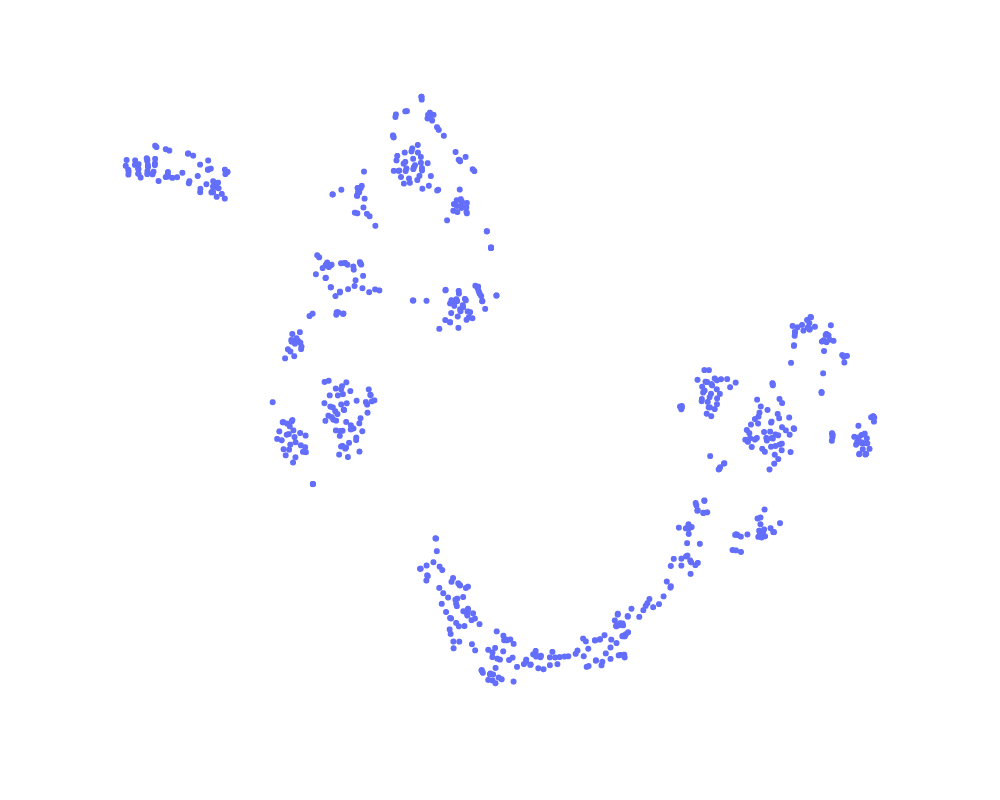
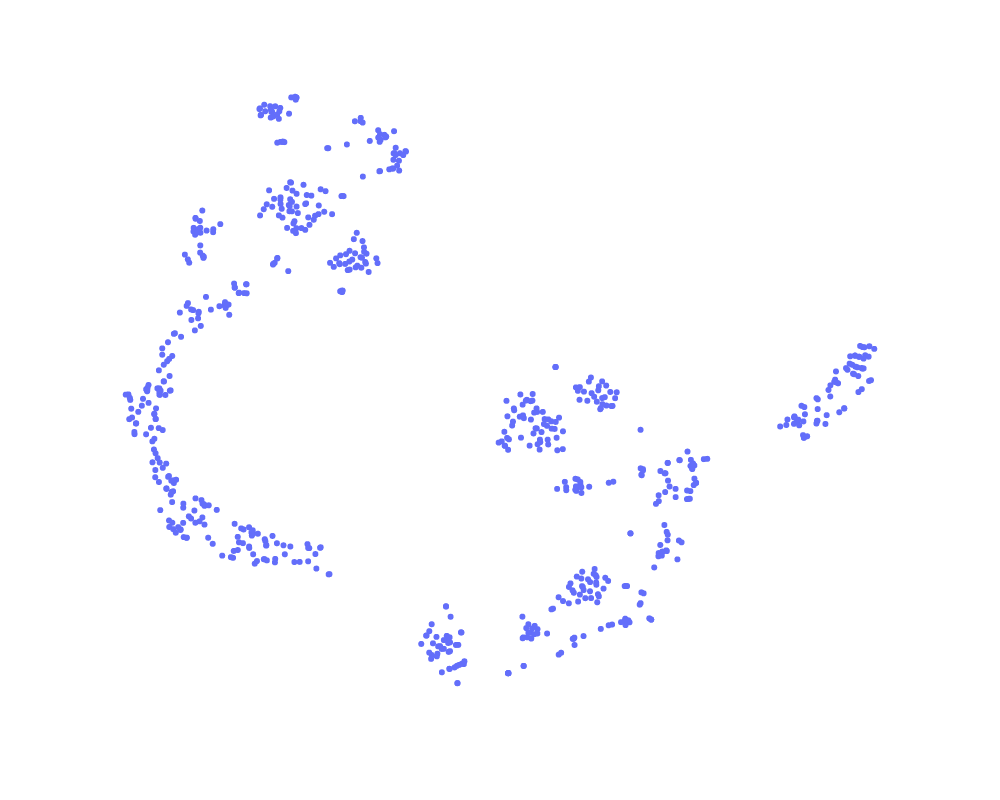
se agrego los modelos, ahora montar las imagenes de los modelos

diff --git a/dashboard/index.html b/dashboard/index.html
@@ -81,7 +81,7 @@
             <div class="container">
               <div class="row align-items-center">
                 <div class="col-md-6 offset-md-6 text-center text-md-right">
-                  <h1> Project Outliers: Bank </h1>
+                  <h1 style="color: #343a40"> Project Outliers: SARLAFT </h1>
                 </div>
               </div>
             </div>
@@ -108,12 +108,9 @@
               <div class="card-body">
 
                 <h5 class="card-title"> DOE </h5>
-                <p class="card-text"> A cada grano de café se realizó la toma de dos fotos, una por el frente y otra por el reverso, sobre una hoja clara, la cual cuenta con tres cuadros de referencia de color que miden 1 por lado. </p>
+                <p class="card-text"> Consultoría, aplicación de modelos ML en factores de riesgo para la detección de anomalias en transacciones bancarias con el objetivo de evitar el lavado de activos entre otros delitos (sarlaft). </p>
                 <small> 
-                  <br> El experimento es no balanceado!!! <br>
-                  Dimensiones: 740 x 480 pixeles, 2256 x 1504 pixeles, hasta 4272 x 2848, entre otros. <br>
-                  Peso: 800 kb hasta 3.2 MB. <br>
-                  Formato: jpeg
+                  <br> El experimento es no supervisado!!! <br>
                 </small>           
 
               </div>
@@ -124,12 +121,8 @@
             <div class="card">
               <div class="card-body">
               
-                <h5 class="card-title"> Problema </h5>
-                <p class="card-text"> EL COMITE NACIONAL DE CAFETEROS mediante la RESOLUCION NUMERO 5 DE 2002, dicta las medidas conducentes a garantizar la calidad del café de Exportación, las cuales deberán ser observadas, tanto por la Federación Nacional de Cafeteros de Colombia como por los exportadores privados. </p>
-              
                 <h5 class="card-title"> Objetivo </h5>
-                <p class="card-text"> Desarrollar un prototipo capaz de clasificar los granos del café. </p>
-                <p class="card-text"> Reducir el porcentaje de error de error de clasificación para evitar realizar una compensación o la devolución del cargamento. </p>
+                <p class="card-text"> Se desarrollo un prototipo capaz de clasificar posibles transacciones anómalas (posibles fraudes). Este análisis de una base de datos de un banco la cual contiene 1000 transacciones. Se aplicaron técnicas de clasificación no supervisada. </p>
             
               </div>
             </div>
@@ -141,7 +134,7 @@
           <div class="card">
             <div class="card-body">
 
-              <p class="card-text"> Se realizara un clasificador de defectos de Café Verde. Los defectos tenidos en cuenta y las caracteristicas son: </p>
+              <p class="card-text"> Se ajustaran 3 modelos para identificar atipicos (y se experimento uno adicional), se cruzaran resultados para aumentar la presicion: </p>
           
               <div class="row pt-2">
 
@@ -151,49 +144,22 @@
           
                     <li class="list-group-item d-flex justify-content-between align-items-start">
                       <div class="ms-2 me-auto">
-                        <div class="fw-bold"> Arrugados </div>
+                        <div class="fw-bold"> Local Outlier Factor (LOF) </div>
                         <small> 
-                          Desarrollo pobre del cafeto por sequía. <br>
-                          Debilidad del cafeto por falta de fertilizantes.
+                          Mide la desviación local de la densidad de una muestra dada con respecto a sus vecinos. Es local en el sentido de que la puntuación de la anomalía depende de qué tan aislado esté el objeto con respecto a la vecindad circundante.
                         </small>
                       </div>
-                      <span class="badge bg-success rounded-pill"> 72 </span>
+                      <span class="badge bg-success rounded-pill"> usado </span>
                     </li>
 
                     <li class="list-group-item d-flex justify-content-between align-items-start">
                       <div class="ms-2 me-auto">
-                        <div class="fw-bold"> Broca </div>
+                        <div class="fw-bold"> Unsupervised Outlier Detection </div>
                         <small> 
-                          Grano con pequeños orificios.
+                          Estimar el soporte de una distribución de alta dimensión, basado en libsvm.
                         </small>
                       </div>
-                      <span class="badge bg-success rounded-pill"> 90 </span>
-                    </li>
-          
-                    <li class="list-group-item d-flex justify-content-between align-items-start">
-                      <div class="ms-2 me-auto">
-                        <div class="fw-bold"> Buenos </div>
-                        <small> 
-                          Grano grande. <br>
-                          Plano y parejo. <br>
-                          Cumplimiento de estandares de calidad dados por la Green Coffee Association of New York City, Inc. (Mallas)
-                        </small>
-                      </div>
-                      <span class="badge bg-success rounded-pill"> 191 </span>
-                    </li>
-          
-                    <li class="list-group-item d-flex justify-content-between align-items-start">
-                      <div class="ms-2 me-auto">
-                        <div class="fw-bold"> Negro </div>
-                        <small> 
-                          Grano con coloración del pardo al negro. <br>
-                          Encogido. <br>
-                          Arrugado. <br>
-                          Cara plana hundida. <br>
-                          Hendidura muy abierta.
-                        </small>
-                      </div>
-                      <span class="badge bg-success rounded-pill"> 101 </span>
+                      <span class="badge bg-success rounded-pill"> usado </span>
                     </li>
           
                   </ul>
@@ -203,55 +169,29 @@
                 <div class="col-12 col-md-6 col-lg-6 mb-4">
           
                   <ul class="list-group">
-          
-                      <li class="list-group-item d-flex justify-content-between align-items-start">
-                        <div class="ms-2 me-auto">
-                          <div class="fw-bold"> Decolorados </div>
-                          <small> 
-                            Grano con alteraciones en su color normal, presenta colores que van desde el blanqueado, crema, amarillo hasta el carmelita.
-                          </small>
-                        </div>
-                        <span class="badge bg-success rounded-pill"> 200 </span>
-                      </li>
 
-                      <li class="list-group-item d-flex justify-content-between align-items-start">
-                        <div class="ms-2 me-auto">
-                          <div class="fw-bold"> Inmaduro </div>
-                          <small> 
-                            Grano de color verdoso o gris claro. <br>
-                            La cutícula no desprende. <br>
-                            Superficie marchita. <br>
-                            amaño menor que el normal. <br>
-                            En este grupo se incluye el grano del paloteo.
-                          </small>
-                        </div>
-                        <span class="badge bg-success rounded-pill"> 200 </span>
-                      </li>
+                    <li class="list-group-item d-flex justify-content-between align-items-start">
+                      <div class="ms-2 me-auto">
+                        <div class="fw-bold"> Isolation Forest (ISO) </div>
+                        <small> 
+                          Aísla las observaciones seleccionando aleatoriamente una característica y luego seleccionando aleatoriamente un valor dividido entre los valores máximo y mínimo de la característica seleccionada.
+                        </small>
+                      </div>
+                      <span class="badge bg-success rounded-pill"> usado </span>
+                    </li>
+
+                    <li class="list-group-item d-flex justify-content-between align-items-start">
+                      <div class="ms-2 me-auto">
+                        <div class="fw-bold"> DBSCAN </div>
+                        <small> 
+                          DBSCAN ve los clústeres como áreas de alta densidad separadas por áreas de baja densidad. <br>
+                          Cualquier muestra alejada de una muestra central o conglomerado en un área de baja densidad es considerada un atípico.
+                        </small>
+                      </div>
+                      <span class="badge bg-danger rounded-pill"> no usado </span>
+                    </li>
           
-                      <li class="list-group-item d-flex justify-content-between align-items-start">
-                        <div class="ms-2 me-auto">
-                          <div class="fw-bold"> Mordido </div>
-                          <small> 
-                            Grano con una herida o cortada. <br>
-                            Color oxidado.
-                          </small>
-                        </div>
-                        <span class="badge bg-success rounded-pill"> 123 </span>
-                      </li>
-          
-                      <li class="list-group-item d-flex justify-content-between align-items-start">
-                        <div class="ms-2 me-auto">
-                          <div class="fw-bold"> Vinagre </div>
-                          <small> 
-                            Grano con coloración del crema al carmelita oscuro. <br>
-                            Hendidura libre de tegumentos. <br>
-                            Película plateada puede tender a coloraciones pardo rojizas.
-                          </small>
-                        </div>
-                        <span class="badge bg-success rounded-pill"> 113 </span>
-                      </li>
-          
-                    </ul>     
+                  </ul>     
           
                 </div>
               
@@ -270,9 +210,18 @@
     <section id="Modelo">
       <div class="container-fluid">
         <div class="row">
+
           <div class="col-12 col-lg-6 pl-0 pr-0">
-            <img src="assets/results/matriz.png" alt="matriz">
+
+
+
+            <!-- <img src="assets/results/matriz.png" alt="matriz"> -->
+
+
+
+
           </div>
+          
           <div class="col-12 col-lg-6 pt-4 pb-4">
             
             <img src="assets/results/precision.png" alt="precision">

diff --git a/dashboard/index.css b/dashboard/index.css
@@ -29,13 +29,14 @@
     left: 0;
     right: 0;
     background-color: rgb(0,0,0,0.5);
-    color: white;
+    color: black;
 }
 
 #carousel .overlay .container,
 #carousel .overlay .row {
     height: 100%;
 }
+
 
 .badges{
     text-align: right;
